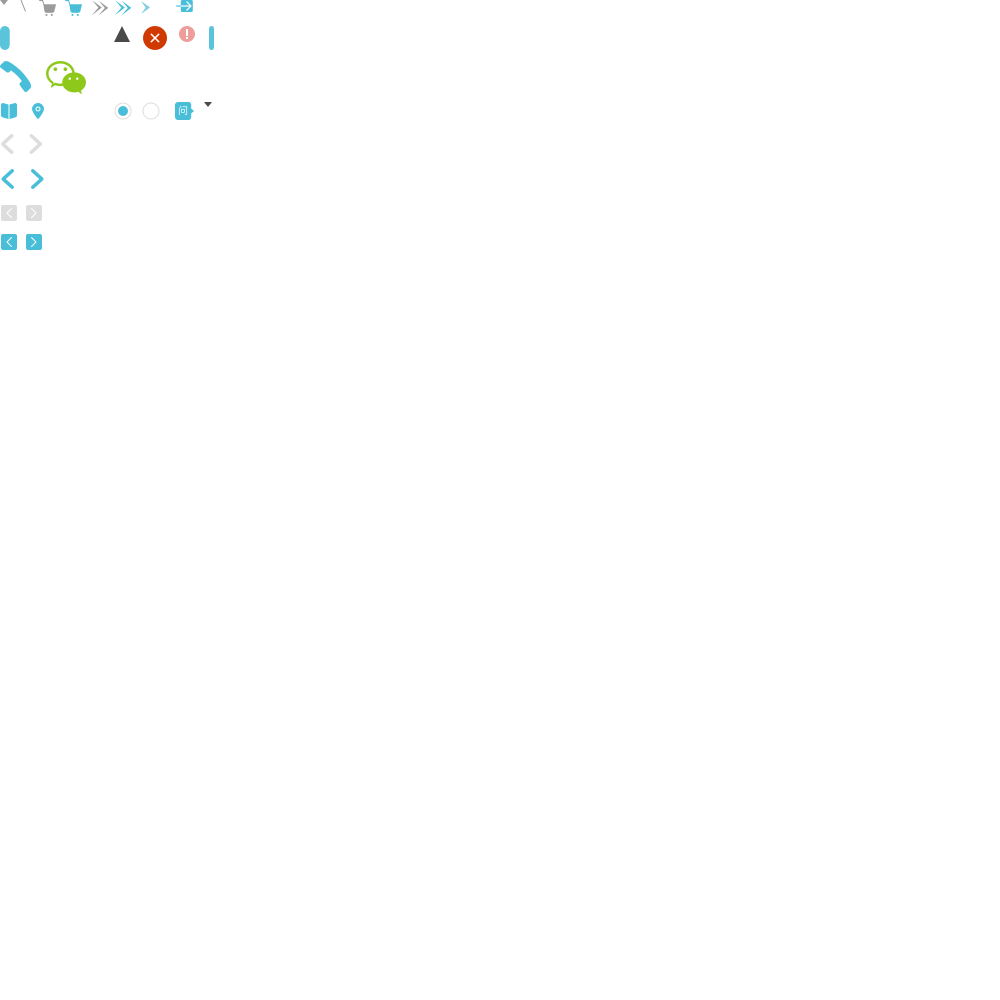
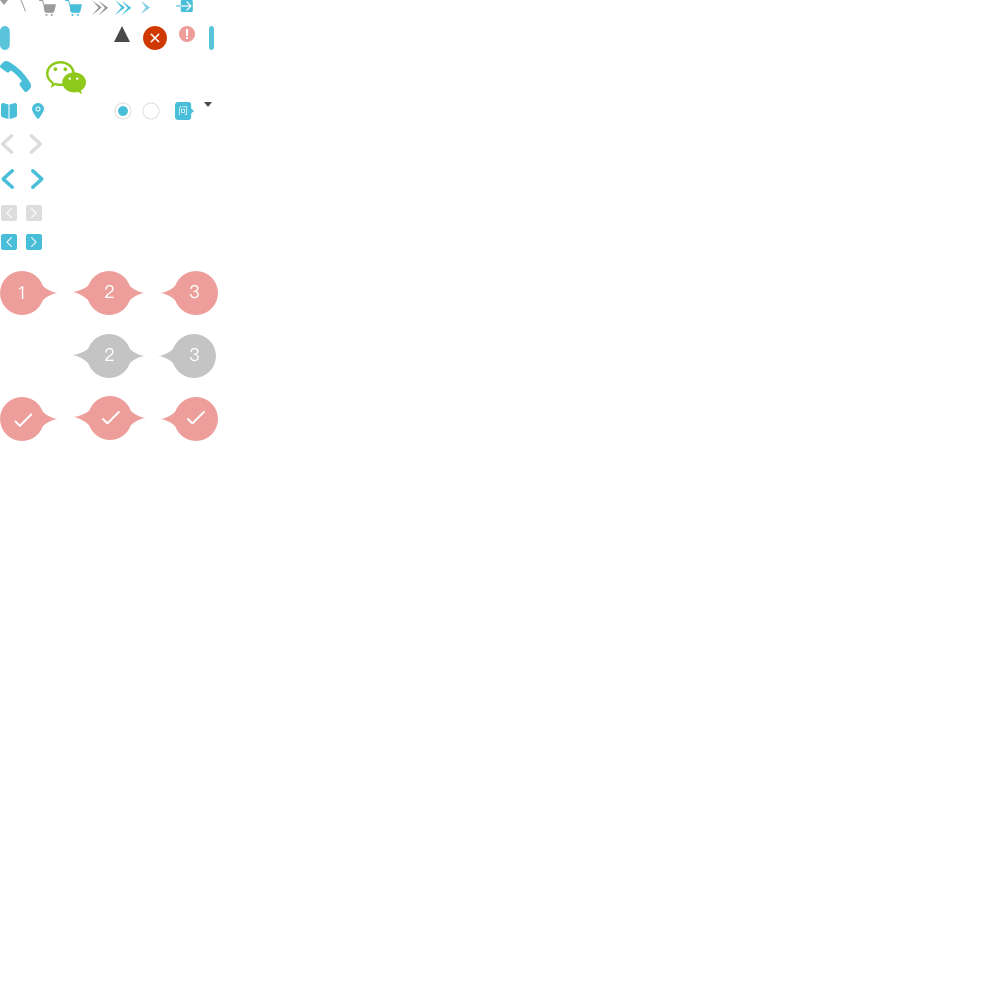
update：购物车

Changed region(s): [[0.0, 0.248, 0.217, 0.465]]

diff --git a/utils/ajax.js b/utils/ajax.js
@@ -5,6 +5,7 @@ var http = require('http');
 var config = require('../config');
 var md5 = require("blueimp-md5");
 var request = require("request");
+var BufferHelper = require('./bufferhelper');//处理buffer接收问题
 
 function signParam(sysParam,bizParam) {
     var params = {};//把bizParam和sysParam一起存放到params里
@@ -29,10 +30,6 @@ function signParam(sysParam,bizParam) {
     }
 
     var str =  config.secret + paramsArr.join('') + config.secret;
-
-    var sign = md5(str);
-
-    console.log('signParam--->origin:'+ str + '---sign--->' + sign);
 
     return md5(str);
 
@@ -71,6 +68,7 @@ module.exports.ajax = function (method,apiName,bizParam,callback) {
 
     var path = config.path;
 
+    console.log('---param:'+param);
     console.log('---method:'+method);
     console.log('---bizParam:'+JSON.stringify(bizParam));
     console.log('---sysPara:'+sysPara);
@@ -80,7 +78,7 @@ module.exports.ajax = function (method,apiName,bizParam,callback) {
     }
 
     var url = 'http://' + config.hostname_test + ":" + config.port_test + path;
-    console.log(url)
+    //console.log(url)
     var options = {
         hostname : config.hostname_test,
         port : config.port_test,
@@ -129,44 +127,37 @@ module.exports.ajax = function (method,apiName,bizParam,callback) {
 
     }else {
         var req = http.request(options,function(response) {
-
-            var body = '';
+            var bufferHelper = new BufferHelper();
 
             response.on('data', function (chunk) {
-                body += chunk;
+                bufferHelper.concat(chunk);
             }).on('end',function() {
+                var body = bufferHelper.toBuffer().toString('utf-8');
 
-                // console.log("body1:",body);
+                console.log(body);
 
                 var success = true;
 
                 var resObj = null;
 
-                // try {
-                //     resObj = JSON.parse(body);
-                //     success = resObj.success;
-                // }catch (err) {
-                //     success = false;
-                // }
-
-                if(typeof body=='string'){
-                    console.log('body:',body)
-                    body = JSON.parse(body);
-                    success = body.success
-
+                try {
+                    resObj = JSON.parse(body);     
+                    success = resObj.success;
+                }catch (err) {
+                    success = false;
                 }
+
                 callback && callback(body,success);
             });
 
         }).on('error', function (e) {
             console.log('problem with request: ' + e.message);
-            console.log('problem with request: ',e);
-            callback && callback(e);
+            callback && callback(null,false);
         });
 
         if(method != 'GET') {req.write(param);}
 
-        //console.log(req);
+        // console.log(req);
         req.end();
 
     }
@@ -212,6 +203,6 @@ function extend() {
         }
     }
     // Return the modified object
-    // console.log('target:',target)
+    console.log('target:',target)
     return target;
 };

diff --git a/utils/bufferhelper.js b/utils/bufferhelper.js
@@ -1,0 +1,54 @@
+var BufferHelper = function () {
+    this.buffers = [];
+    this.size = 0;
+    this._status = "changed";
+};
+
+BufferHelper.prototype.concat = function (buffer) {
+    for (var i = 0, l = arguments.length; i < l; i++) {
+        this._concat(arguments[i]);
+    }
+    return this;
+};
+
+BufferHelper.prototype._concat = function (buffer) {
+    this.buffers.push(buffer);
+    this.size = this.size + buffer.length;
+    this._status = "changed";
+    return this;
+};
+
+BufferHelper.prototype._toBuffer = function () {
+    var data = null;
+    var buffers = this.buffers;
+    switch(buffers.length) {
+        case 0:
+            data = new Buffer(0);
+            break;
+        case 1:
+            data = buffers[0];
+            break;
+        default:
+            data = new Buffer(this.size);
+            for (var i = 0, pos = 0, l = buffers.length; i < l; i++) {
+                var buffer = buffers[i];
+                buffer.copy(data, pos);
+                pos += buffer.length;
+            }
+            break;
+    }
+    // Cache the computed result
+    this._status = "computed";
+    this.buffer = data;
+    return data;
+};
+
+BufferHelper.prototype.toBuffer = function () {
+    return this._status === "computed" ? this.buffer : this._toBuffer();
+};
+
+BufferHelper.prototype.toString = function () {
+    return Buffer.prototype.toString.apply(this.toBuffer(), arguments);
+};
+
+module.exports = BufferHelper;

diff --git a/public/css/cart/cart.css b/public/css/cart/cart.css
@@ -1,0 +1,51 @@
+@charset "UTF-8";
+/*
+
+
+设备像素\宽度：17种
+
+320 ， 480 ， 540 ， 600 ， 640 ， 720 ， 768 ， 800 ， 1024 ， 1080 ， 1200 ， 1280 ， 1366 ， 1536 ， 1600 ， 1920 ， 2048  2560
+
+
+设备像素\高度：15种
+
+480 ， 600 ， 720 ， 768 ， 800 ， 854 ， 960 ， 1024 ， 1080 ， 1136 ， 1280 ， 1536 ， 1920 ， 2048 ， 2560
+
+*/
+.cart .cart-step {
+  width: 80%; }
+  .cart .cart-step .step-wrapper {
+    display: inline-block;
+    width: 100px; }
+    .cart .cart-step .step-wrapper span {
+      display: inline-block;
+      width: 100%;
+      text-align: center; }
+  .cart .cart-step .cart {
+    text-align: center; }
+    .cart .cart-step .cart i {
+      width: 58px;
+      height: 44px;
+      background-position: 0 -271px; }
+  .cart .cart-step .check {
+    position: absolute; }
+    .cart .cart-step .check i {
+      width: 73px;
+      height: 44px;
+      background-position: -75px -334px; }
+  .cart .cart-step .commit i {
+    width: 58px;
+    height: 44px;
+    background-position: -163px -334px; }
+.cart header {
+  position: relative;
+  padding-bottom: 20px; }
+  .cart header h2 {
+    background-color: #FFF;
+    padding: 20px 10px 0;
+    font-size: 20px; }
+  .cart header p {
+    color: #9d9d9d;
+    font-size: 16px; }
+
+/*# sourceMappingURL=cart.css.map */

diff --git a/routes/cart.js b/routes/cart.js
@@ -1,0 +1,36 @@
+/*
+* 科普模块  kepu
+* */
+var express = require('express');
+var router = express.Router();
+var request = require('../requests/cart.request');
+
+router.get('/list',function(req,res,next) {
+    request.GetCartList(req,function(json,success) {
+        if(success){
+            // var query = req.query;
+            res.locals.pagecount=json.data.pageCount;
+            res.locals.currentpage = req.query.page||1;
+            // delete query.page;
+            // var queryStr = '';
+            // for(var attr in query){
+            //     queryStr += attr + '=' + query[attr] + '&';
+            // }
+            // res.locals.query = queryStr;
+            // res.locals.category = query.category || '1';
+            // res.locals.tc = query.tc || '';
+            res.render('cart/list',{
+                title:'健康科普_文章列表',
+                data:json.data.data
+            });
+        }else{
+            res.json(json);
+        }
+    });
+});
+
+module.exports = router;
+
+
+
+

diff --git a/public/sass/cart/cart.scss b/public/sass/cart/cart.scss
@@ -1,0 +1,54 @@
+@import "../settings.scss";
+
+.cart {
+  .cart-step {
+    width:80%;
+    .step-wrapper {
+      display: inline-block;
+      width: 100px;
+      span {
+        display: inline-block;
+        width: 100%;
+        text-align: center;
+      }
+    }
+    .cart {
+      text-align:center;
+      i {
+        width: 58px;
+        height: 44px;
+        background-position: 0 -271px;
+      }
+    }
+    .check {
+      position:absolute;
+      i {
+        width: 73px;
+        height: 44px;
+        background-position: -75px -334px;
+      }
+    }
+    .commit {
+      i {
+        width: 58px;
+        height: 44px;
+        background-position: -163px -334px;
+      }
+    }
+
+  }
+  header {
+    position: relative;
+    padding-bottom: 20px;
+    h2 {
+      background-color: $white;
+      padding: 20px 10px 0;
+      font-size: 20px;
+    }
+    p {
+      color: $textc_9d;
+      font-size: 16px;
+    }
+  }
+
+}

diff --git a/requests/cart.request.js b/requests/cart.request.js
@@ -1,0 +1,25 @@
+/**
+ * Created by James on 16/4/12.
+ */
+var util = require('../utils/ajax');
+var api = require('../utils/api');
+var config = require('../config');
+
+
+exports.GetCartList = function (req, callback) {
+    var currentPage = req.query.page || 1;
+
+    var bizParam = {
+        "pageIndex": currentPage,
+        "pageSize": config.pageSize,
+        "accountId": '15018510347'
+    };
+    
+    util.ajax('GET', api.GetCartList, bizParam, function (data, success) {
+        var json = JSON.parse(data);
+        callback && callback(json, success);
+    });
+};
+
+
+

diff --git a/app.js b/app.js
@@ -16,6 +16,7 @@ var screenings = require('./routes/screening');
 var searchs = require('./routes/search');
 var treats = require('./routes/treat');
 var users = require('./routes/users');
+var carts = require('./routes/cart');
 
 var app = express();
 
@@ -48,6 +49,7 @@ app.use('/screenings', screenings);
 app.use('/searchs', searchs);
 app.use('/treats', treats);
 app.use('/users', users);
+app.use('/cart', carts);
 
 //捕获404错误并转发到错误处理中间件
 app.use(function(req, res, next) {

diff --git a/utils/api.js b/utils/api.js
@@ -109,6 +109,11 @@ module.exports = {
     cancelReservationGroup:'cancelReservationGroup',
 
     //webIM
-    MessageHistory:"pagingQueryMessageHistory"
+    MessageHistory:"pagingQueryMessageHistory",
+
+
+
+    //购物车
+    GetCartList:"trade.pagingQueryCartItem"
 
 };

diff --git a/public/sass/global.scss b/public/sass/global.scss
@@ -6,6 +6,9 @@
 .green2{ color :#049400}
 .gray{ color: #018FEC}
 
+.fl{float:left;}
+.fr{float:right;}
+
 .wrapper{width:$wrapperWidth; margin: 0 auto;position: relative;}
 
 a{color:$textColor;

diff --git a/public/css/global.css b/public/css/global.css
@@ -28,6 +28,12 @@
 .gray {
   color: #018FEC; }
 
+.fl {
+  float: left; }
+
+.fr {
+  float: right; }
+
 .wrapper {
   width: 1024px;
   margin: 0 auto;
